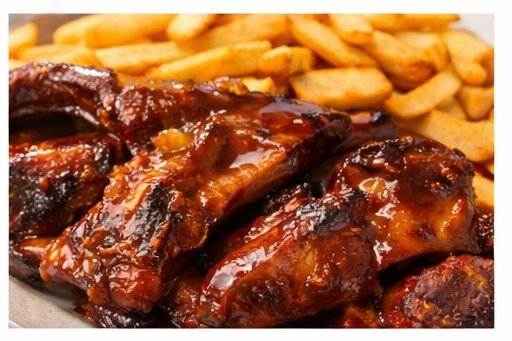
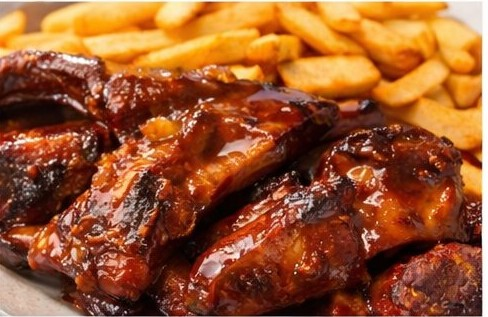
Fix white borders on food images, 2-page PDF, mobile nav spacing
- Cropped white borders from collage food images
- PDF menu now exactly 2 pages with tighter spacing
- Mobile nav: full-width links with separator lines, proper padding

diff --git a/css/style.css b/css/style.css
@@ -1288,13 +1288,21 @@ h3, h4 {
     position: fixed; top: 70px; left: 0; right: 0;
     background: rgba(10, 10, 10, 0.97);
     backdrop-filter: blur(20px);
-    padding: 1rem 1.5rem; gap: 0.15rem;
+    padding: 1.25rem 1.5rem; gap: 0;
     border-bottom: 1px solid rgba(255, 255, 255, 0.06);
     z-index: 99;
   }
   .nav-links.open { display: flex; }
   .nav-toggle { display: block; }
-  .nav-link { padding: 0.65rem 1rem; font-size: 0.85rem; }
+  .nav-links li { border-bottom: 1px solid rgba(255, 255, 255, 0.04); }
+  .nav-links li:last-child { border-bottom: none; }
+  .nav-link {
+    padding: 0.9rem 1rem;
+    font-size: 0.9rem;
+    display: block;
+    width: 100%;
+    border-radius: 0;
+  }
 
   .hero { padding: 2.5rem 1.5rem; }
   .hero-logo-img { width: 85vw; max-width: 420px; }